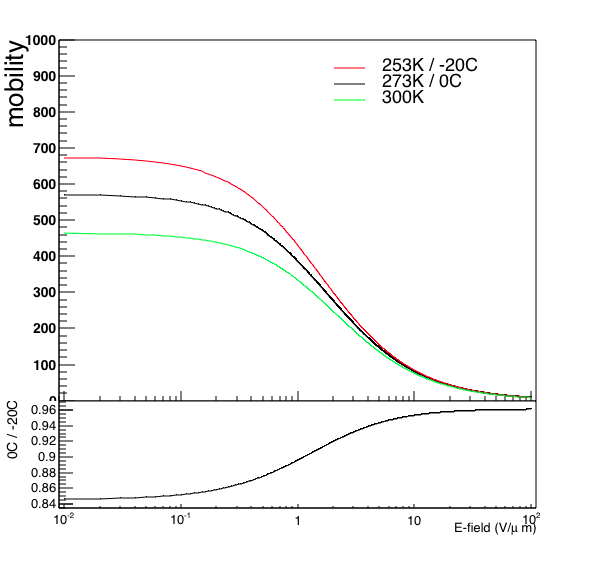
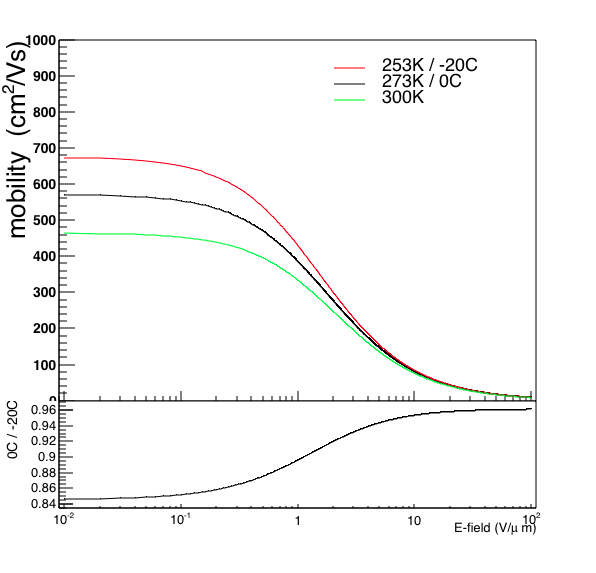
300K

Changed region(s): [[0.0, 0.0593, 0.0604, 0.2373], [0.0, 0.267, 0.0604, 0.4154]]

diff --git a/mob_v.C b/mob_v.C
@@ -59,7 +59,7 @@ void mob_v(){
 
     mob_0->GetYaxis()->SetLabelFont(63); //font in pixels
     mob_0->GetYaxis()->SetLabelSize(16); //in pixels
-    mob_0->GetYaxis()->SetTitle("mobility");
+    mob_0->GetYaxis()->SetTitle("mobility  (cm^{2}/Vs)");
     mob_0->SetTitle("");
     mob_0->SetMinimum(0.);
     mob_0->SetMaximum(1000.);
@@ -79,13 +79,13 @@ void mob_v(){
     mob_300K->Draw("SAME");
  
     pad1->SetLogx();
-    TLegend* leg = new TLegend(0.75, 0.73, .85, .85);
-    leg->SetFillColor(0);
-    leg->AddEntry(mob_m20, " -20C", "l");
-    leg->AddEntry(mob_0, "  0C", "l");
+    TLegend* leg = new TLegend(0.55, 0.73, .85, .85);
+    leg->SetFillColor(0); 
+    leg->AddEntry(mob_m20, "  253K / -20C", "l");
+    leg->AddEntry(mob_0, "  273K / 0C", "l");
     leg->AddEntry(mob_300K, "  300K", "l");
     leg->SetBorderSize(0);
-    leg->SetTextSize(0.07);
+    leg->SetTextSize(0.05);
 
     leg->Draw();
  
